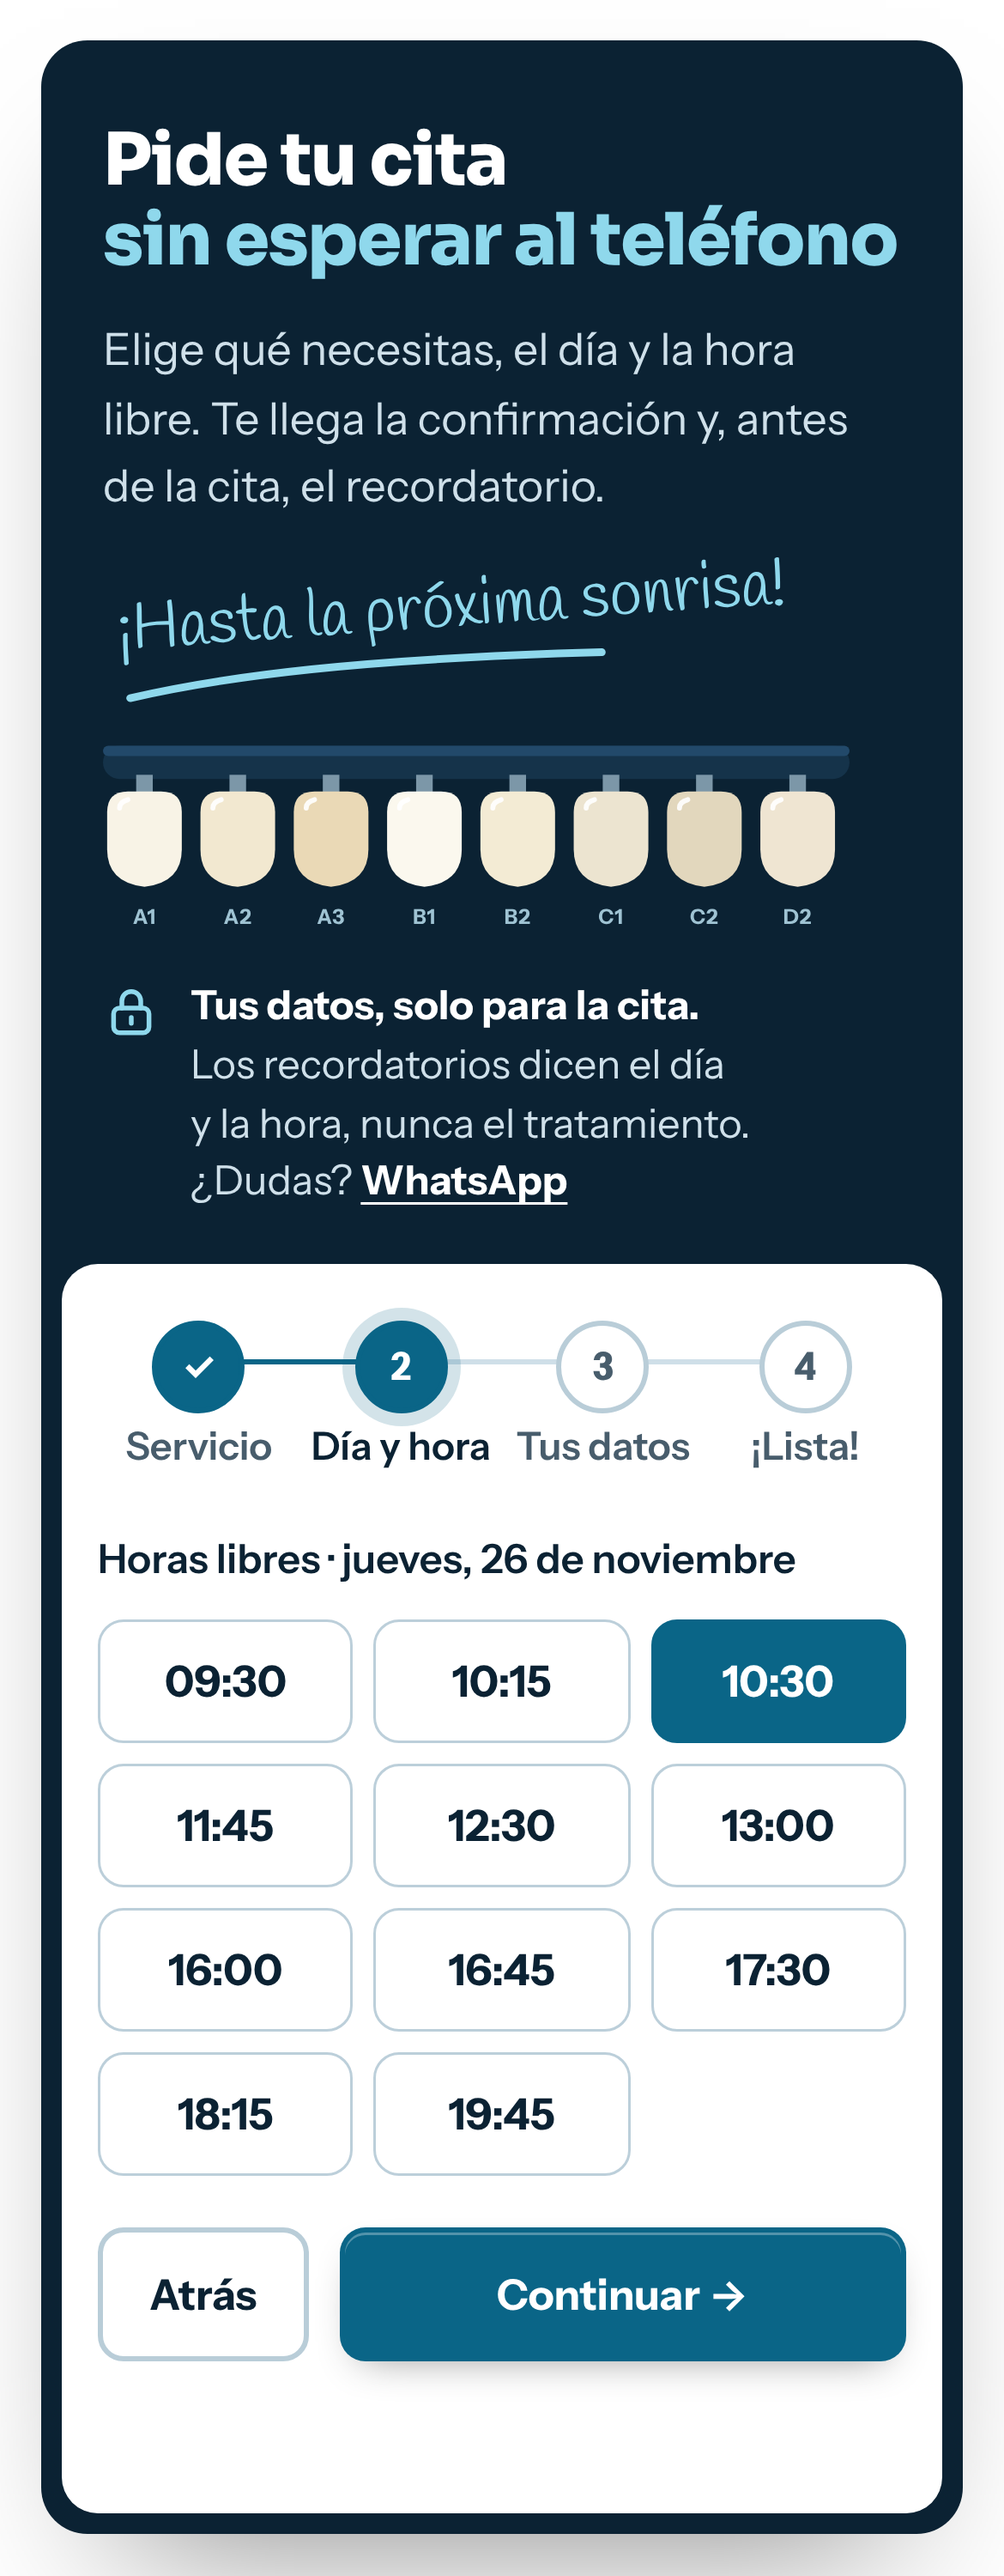
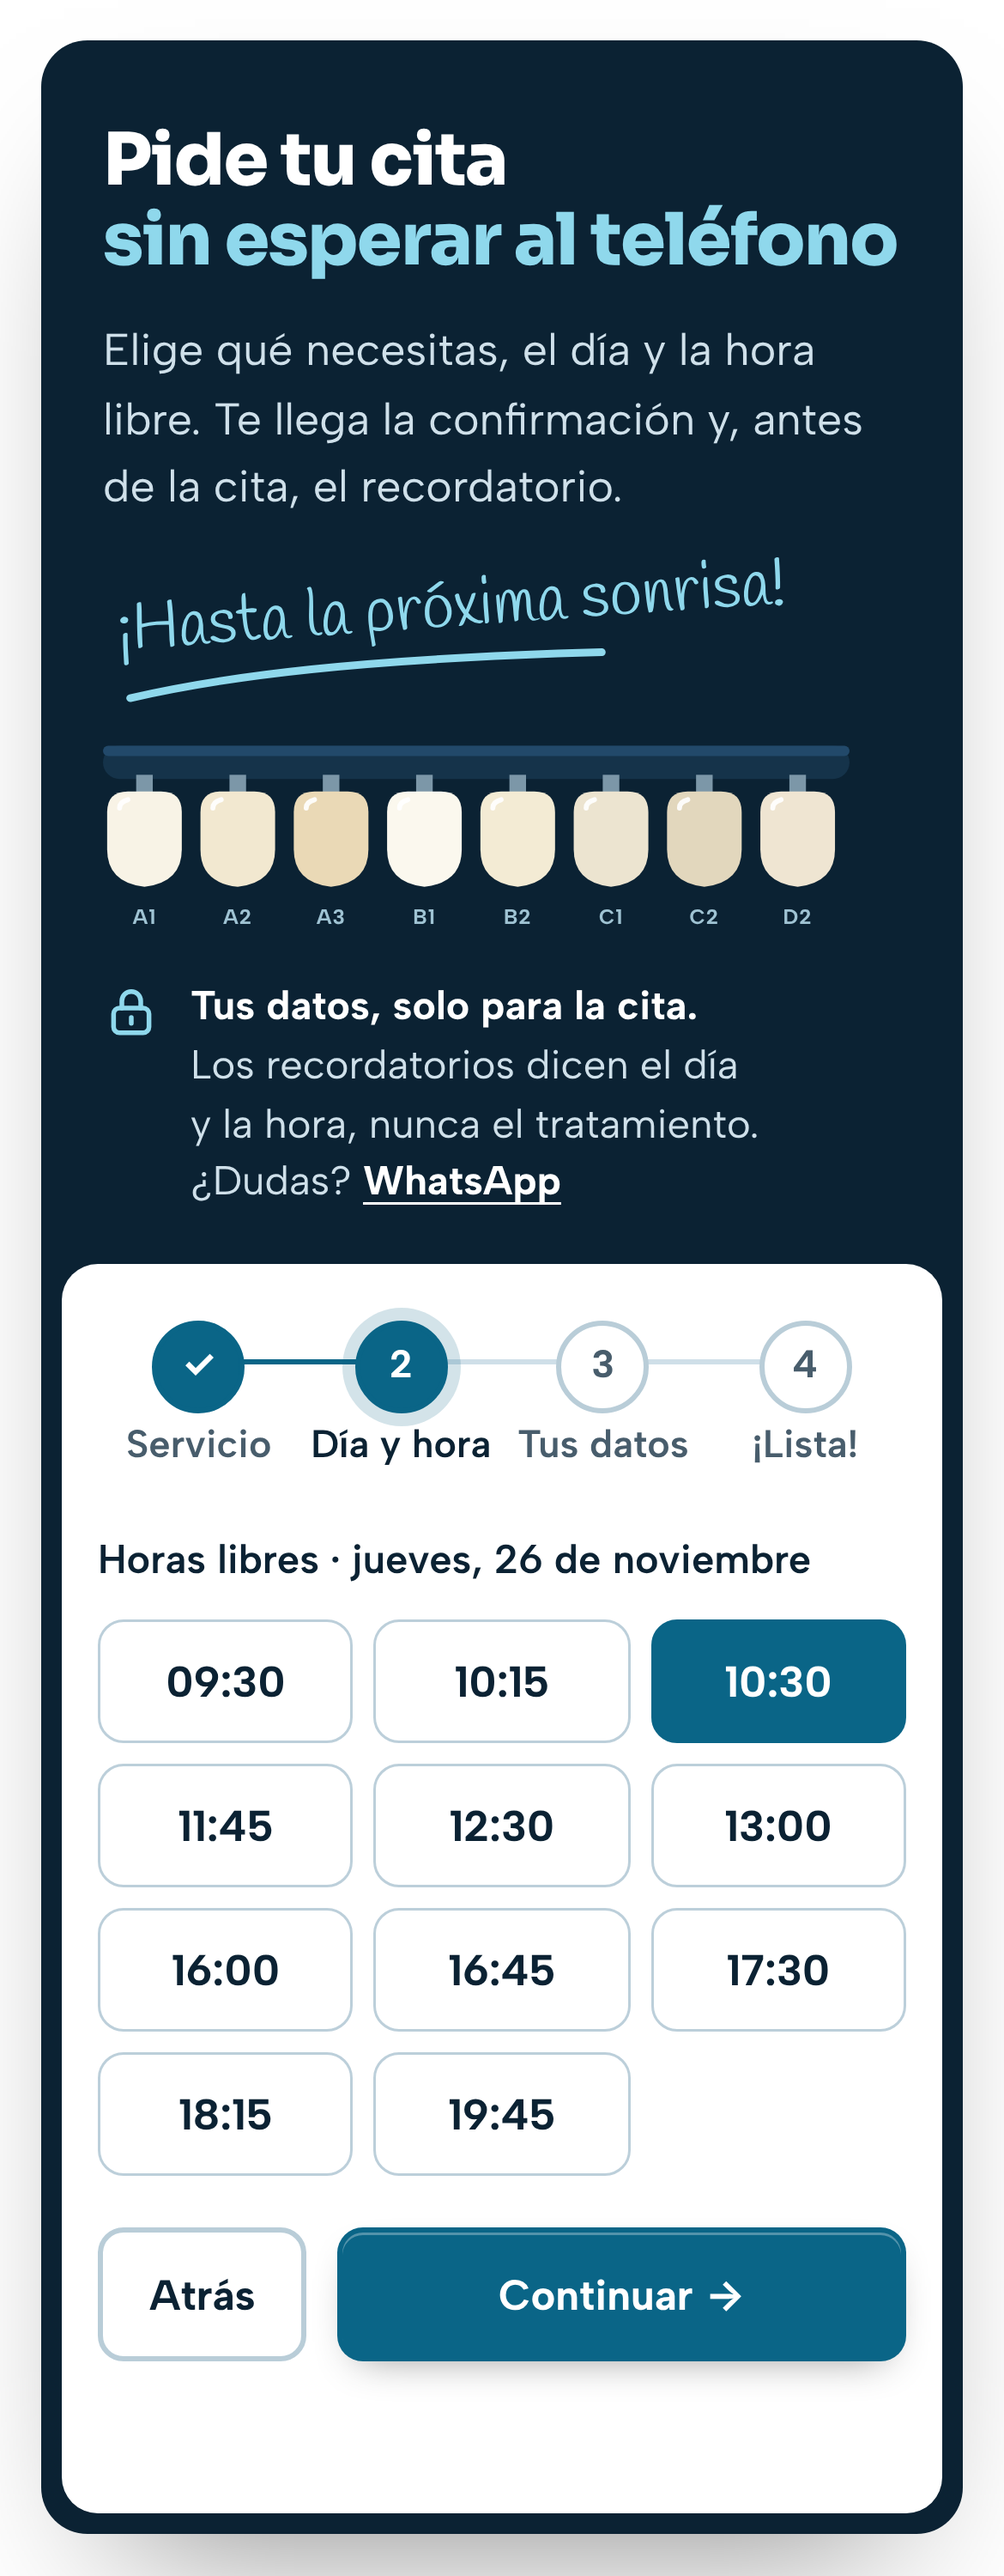
dental-ejemplo: Albert Sans en vez de Instrument Sans (detector)

diff --git a/demos/dental-ejemplo/capturas-script/mock-supabase.js b/demos/dental-ejemplo/capturas-script/mock-supabase.js
@@ -9,7 +9,7 @@ const S = { pv: { nombre: "Primera visita y revisión" }, li: { nombre: "Limpiez
 const now = new Date().toISOString();
 const H = [["09:30","14:00"],["16:00","20:30"]];
 const DATA = {
-  negocios: [{ nombre: "Clínica dental de ejemplo", config: { sanitario: true, horario: { "1": H, "2": H, "3": H, "4": H, "5": [["09:30","14:00"]], "6": [], "7": [] }, intervalo_min: 15, tema: {"nombre": "Tu clínica dental", "colores": {"fondo": "#f3f8fa", "tarjeta": "#ffffff", "borde": "#d4e5ec", "primario": "#0a6587", "oscuro": "#0b2233"}, "fuentes": {"titulos": "Sora:wght@700;800", "texto": "Instrument Sans:wght@400;700"}, "logo_svg": "<svg xmlns=\"http://www.w3.org/2000/svg\" viewBox=\"0 0 250 64\" role=\"img\" aria-label=\"Tu clínica dental\"><path d=\"M14 8C8 8 5 14 5 21c0 8 4 13 5 21 1 8 2 16 7.5 16 4.5 0 4.5-10 6.5-14 1-3 3-4.5 6-4.5s5 1.5 6 4.5c2 4 2 14 6.5 14 5.5 0 6.5-8 7.5-16 1-8 5-13 5-21 0-7-3-13-9-13-6 0-10 3.5-16 3.5S20 8 14 8Z\" fill=\"#ffffff\"/><path d=\"M13 16c-3 2-3.5 7-2.5 11\" fill=\"none\" stroke=\"#8fd8ec\" stroke-width=\"3.2\" stroke-linecap=\"round\"/><path d=\"M50 4l1.6 4.4L56 10l-4.4 1.6L50 16l-1.6-4.4L44 10l4.4-1.6Z\" fill=\"#8fd8ec\"/><text x=\"68\" y=\"37\" font-family=\"Sora,Arial,sans-serif\" font-weight=\"800\" font-size=\"29\" fill=\"#ffffff\" letter-spacing=\"-1\">Tu clínica</text><text x=\"69.5\" y=\"55\" font-family=\"Instrument Sans,Arial,sans-serif\" font-weight=\"700\" font-size=\"11\" fill=\"#8fd8ec\" letter-spacing=\"5.2\">DENTAL</text></svg>"} } }],
+  negocios: [{ nombre: "Clínica dental de ejemplo", config: { sanitario: true, horario: { "1": H, "2": H, "3": H, "4": H, "5": [["09:30","14:00"]], "6": [], "7": [] }, intervalo_min: 15, tema: {"nombre": "Tu clínica dental", "colores": {"fondo": "#f3f8fa", "tarjeta": "#ffffff", "borde": "#d4e5ec", "primario": "#0a6587", "oscuro": "#0b2233"}, "fuentes": {"titulos": "Sora:wght@700;800", "texto": "Albert Sans:wght@400;700"}, "logo_svg": "<svg xmlns=\"http://www.w3.org/2000/svg\" viewBox=\"0 0 250 64\" role=\"img\" aria-label=\"Tu clínica dental\"><path d=\"M14 8C8 8 5 14 5 21c0 8 4 13 5 21 1 8 2 16 7.5 16 4.5 0 4.5-10 6.5-14 1-3 3-4.5 6-4.5s5 1.5 6 4.5c2 4 2 14 6.5 14 5.5 0 6.5-8 7.5-16 1-8 5-13 5-21 0-7-3-13-9-13-6 0-10 3.5-16 3.5S20 8 14 8Z\" fill=\"#ffffff\"/><path d=\"M13 16c-3 2-3.5 7-2.5 11\" fill=\"none\" stroke=\"#8fd8ec\" stroke-width=\"3.2\" stroke-linecap=\"round\"/><path d=\"M50 4l1.6 4.4L56 10l-4.4 1.6L50 16l-1.6-4.4L44 10l4.4-1.6Z\" fill=\"#8fd8ec\"/><text x=\"68\" y=\"37\" font-family=\"Sora,Arial,sans-serif\" font-weight=\"800\" font-size=\"29\" fill=\"#ffffff\" letter-spacing=\"-1\">Tu clínica</text><text x=\"69.5\" y=\"55\" font-family=\"Albert Sans,Arial,sans-serif\" font-weight=\"700\" font-size=\"11\" fill=\"#8fd8ec\" letter-spacing=\"5.2\">DENTAL</text></svg>"} } }],
   reservas: [
     { id: "r1", created_at: now, fecha: F1, hora: "09:30:00", estado: "confirmada", notas: "Prefiere a primera hora", clientes: { nombre: "Lucía G.", telefono: "600111222" }, servicios: S.li, servicio_id: "b", cliente_id: "c1" },
     { id: "r2", created_at: now, fecha: F1, hora: "10:30:00", estado: "confirmada", notas: null, clientes: { nombre: "Pablo M.", telefono: "600123456" }, servicios: S.pv, servicio_id: "a", cliente_id: "c2" },

diff --git a/demos/dental-ejemplo/index.html b/demos/dental-ejemplo/index.html
@@ -13,7 +13,7 @@
 <meta name="theme-color" content="#0b2233">
 <link rel="preconnect" href="https://fonts.googleapis.com">
 <link rel="preconnect" href="https://fonts.gstatic.com" crossorigin>
-<link href="https://fonts.googleapis.com/css2?family=Sora:wght@700;800&family=Instrument+Sans:wght@400;600;700&family=Handlee&display=swap" rel="stylesheet">
+<link href="https://fonts.googleapis.com/css2?family=Sora:wght@700;800&family=Albert+Sans:wght@400;600;700&family=Handlee&display=swap" rel="stylesheet">
 <link rel="preload" as="image" href="img/inicio.jpg">
 <script type="application/ld+json">
 {
@@ -46,7 +46,7 @@
     --ac: #0a6587; --ac-hover: #084f6a; --pino: #0b2233; --pino-2: #15334a; --tinta: #0b2233; --tinta-suave: #485d6c;
     --oro: #8fd8ec; --urg: #b42318; --wa: #25d366;
     --f-tit: "Sora", system-ui, -apple-system, "Segoe UI", sans-serif;
-    --f-txt: "Instrument Sans", system-ui, -apple-system, "Segoe UI", sans-serif;
+    --f-txt: "Albert Sans", system-ui, -apple-system, "Segoe UI", sans-serif;
     --f-mano: "Handlee", "Segoe Print", cursive;
   }
   * { box-sizing: border-box; }
@@ -348,7 +348,7 @@
     <path d="M13 16c-3 2-3.5 7-2.5 11" fill="none" style="stroke:var(--logo-brillo, #ffffff)" stroke-width="3.2" stroke-linecap="round"/>
     <path d="M50 4l1.6 4.4L56 10l-4.4 1.6L50 16l-1.6-4.4L44 10l4.4-1.6Z" style="fill:var(--logo-estrella, #8fd8ec)"/>
     <text x="68" y="37" font-family="Sora, system-ui, sans-serif" font-weight="800" font-size="29" style="fill:var(--logo-txt, #0b2233)" letter-spacing="-1">Tu clínica</text>
-    <text x="69.5" y="55" font-family="Instrument Sans, system-ui, sans-serif" font-weight="700" font-size="11" style="fill:var(--logo-sub, #0a6587)" letter-spacing="5.2">DENTAL</text>
+    <text x="69.5" y="55" font-family="Albert Sans, system-ui, sans-serif" font-weight="700" font-size="11" style="fill:var(--logo-sub, #0a6587)" letter-spacing="5.2">DENTAL</text>
   </symbol>
 </svg>
 

diff --git a/demos/dental-ejemplo/capturas-script/capturas.py b/demos/dental-ejemplo/capturas-script/capturas.py
@@ -8,14 +8,14 @@ REPO = Path(__file__).resolve().parents[3]
 DEMO = REPO / "demos/dental-ejemplo/index.html"
 ADMIN = REPO / "taller/reservas/admin.html"
 OUT = REPO / "demos/dental-ejemplo/capturas"
-FM = Path(os.environ.get("FONTS_DIR", "fonts/node_modules"))  # npm i @fontsource/sora @fontsource/instrument-sans @fontsource/handlee
+FM = Path(os.environ.get("FONTS_DIR", "fonts/node_modules"))  # npm i @fontsource/sora @fontsource/albert-sans @fontsource/handlee
 MOCK = Path(__file__).with_name("mock-supabase.js")
 NEG = "fe74ec14-f676-4256-b76e-4c351c4d2af3"
 
 F = lambda fam, w: FM / f"@fontsource/{fam}/files/{fam}-latin-{w}-normal.woff2"
 FONTS = {
     "Sora": [(f"so{w}", F("sora", w), str(w), None) for w in (700, 800)],
-    "Instrument Sans": [(f"is{w}", F("instrument-sans", w), str(w), None) for w in (400, 600, 700)],
+    "Albert Sans": [(f"as{w}", F("albert-sans", w), str(w), None) for w in (400, 600, 700)],
     "Handlee": [("hl400", F("handlee", 400), "400", None)],
 }
 ARCH = {k: p for fam in FONTS.values() for k, p, *_ in fam}

diff --git a/demos/NOTAS-DISENO.md b/demos/NOTAS-DISENO.md
@@ -19,4 +19,4 @@ siguiente no repita lo mismo: negocio · concepto · tipografías · colores · 
 - bar-ejemplo · REHECHA con el estilo escaparate (17-11-2026; sustituye a la versión granate con la barra en SVG de arriba): bar de tapas de pueblo, «escaparate» crema con fotos de Unsplash (mesa llena de tapas, jamón y queso a la derecha del inicio, degradado oscuro solo a la izquierda) · DM Serif Display + Work Sans (+ Caveat solo en la firma «¡Te esperamos!») · crema #faf5ec, papel #fffdf8, teja #b4502a (botones), oliva #2f3a22 (franja, cierre y pie), dorado #f2c27b solo en la parte del titular sobre la foto · detalle: logotipo con ramita de olivo sobre «TU BAR» y TAPAS Y COMIDAS; 6 platos con foto («De nuestra barra»); reserva clara con botones Comida/Cena, personas y día en una fila + 4 pasos; franja con foto de mesa y los dos turnos; cierre oliva «¿Comemos este finde?»; tema del panel también en crema/teja/oliva. Capturas con fuentes y datos simulados en local: `capturas-script/`.
 - unas-estetica-ejemplo (demo ficticia de reservas, 24-11-2026, estilo escaparate): estudio de uñas de barrio limpio y luminoso, «la mesa de manicura recién recogida» · Urbanist 800 + Mulish (+ Dancing Script solo en «sin llamar» y la firma «¡Nos vemos en el estudio!») · blanco, rosa empolvado #f8ebe8 (garantías y opiniones), frambuesa #b02e5c (botones y parte del titular), berenjena #2b1622 (franja, reserva y pie) · detalle: carta de 6 esmaltes sobre el bloque de reserva berenjena con el formulario en una tarjeta blanca; logotipo de frasco de esmalte frambuesa junto a «Tu estudio» y UÑAS Y ESTÉTICA; 6 servicios en rejilla 3×2 con foto apaisada y minutos; foto de inicio con manos pintando uñas con esmalte en la mitad derecha. Capturas con fuentes y datos simulados en local: `capturas-script/`.
 - veterinaria-ejemplo (demo ficticia de reservas, 24-11-2026, estilo escaparate): consulta veterinaria de barrio clara y tranquila, «verde de bata de quirófano y la chapa del collar» · Bricolage Grotesque 800 + Schibsted Grotesk (+ Gochi Hand solo en «sin llamar» y la firma «¡Hasta pronto, peludo!») · blanco, verde menta #ecf5f1 (garantías y opiniones), verde quirófano #0b7266 (botones y parte del titular), verde pino #0f2f2b (reserva, tarjeta de urgencias y pie), dorado chapa #f6c453 solo sobre oscuro, rojo #b42318 solo para urgencias · detalle: chapa de collar dorada con anilla y huella junto a «¿Es una urgencia? No reserves: llama», en el inicio, en la tarjeta de urgencias y en la reserva; logotipo de huella dentro de una cruz redondeada; foto de inicio en los 2/3 derechos (perro salchicha en primer plano con el veterinario detrás); 5 citas con foto y minutos + tarjeta de urgencias. Capturas con fuentes y datos simulados en local: `capturas-script/`.
-- dental-ejemplo (demo ficticia de reservas, 25-11-2026, estilo escaparate): clínica dental de barrio clara y tranquila, «azul petróleo y blanco de gabinete, con la guía de colores del dentista» · Sora 800 + Instrument Sans (+ Handlee solo en «sin llamar» y la firma «¡Hasta la próxima sonrisa!») · blanco, azul hielo #eaf3f7 (garantías y opiniones), azul petróleo #0a6587 (botones, parte del titular y tarjeta «¿No sabes qué cita pedir?»), azul noche #0b2233 (franja, reserva y pie), cian claro #8fd8ec solo sobre oscuro · detalle: guía de colores dental (8 pestañas A1…D2 colgando de su barra) en el bloque de reserva, junto a la nota de privacidad «los recordatorios dicen el día y la hora, nunca el tratamiento»; logotipo de diente con brillo y estrella; foto de inicio en la parte derecha (dentista hablando con una paciente sonriente en el sillón); 5 citas con foto y minutos (sin precios: centro sanitario). Panel con `sanitario: true`. Capturas con fuentes y datos simulados en local: `capturas-script/`.
+- dental-ejemplo (demo ficticia de reservas, 25-11-2026, estilo escaparate): clínica dental de barrio clara y tranquila, «azul petróleo y blanco de gabinete, con la guía de colores del dentista» · Sora 800 + Albert Sans (+ Handlee solo en «sin llamar» y la firma «¡Hasta la próxima sonrisa!») · blanco, azul hielo #eaf3f7 (garantías y opiniones), azul petróleo #0a6587 (botones, parte del titular y tarjeta «¿No sabes qué cita pedir?»), azul noche #0b2233 (franja, reserva y pie), cian claro #8fd8ec solo sobre oscuro · detalle: guía de colores dental (8 pestañas A1…D2 colgando de su barra) en el bloque de reserva, junto a la nota de privacidad «los recordatorios dicen el día y la hora, nunca el tratamiento»; logotipo de diente con brillo y estrella; foto de inicio en la parte derecha (dentista hablando con una paciente sonriente en el sillón); 5 citas con foto y minutos (sin precios: centro sanitario). Panel con `sanitario: true`. Capturas con fuentes y datos simulados en local: `capturas-script/`.
